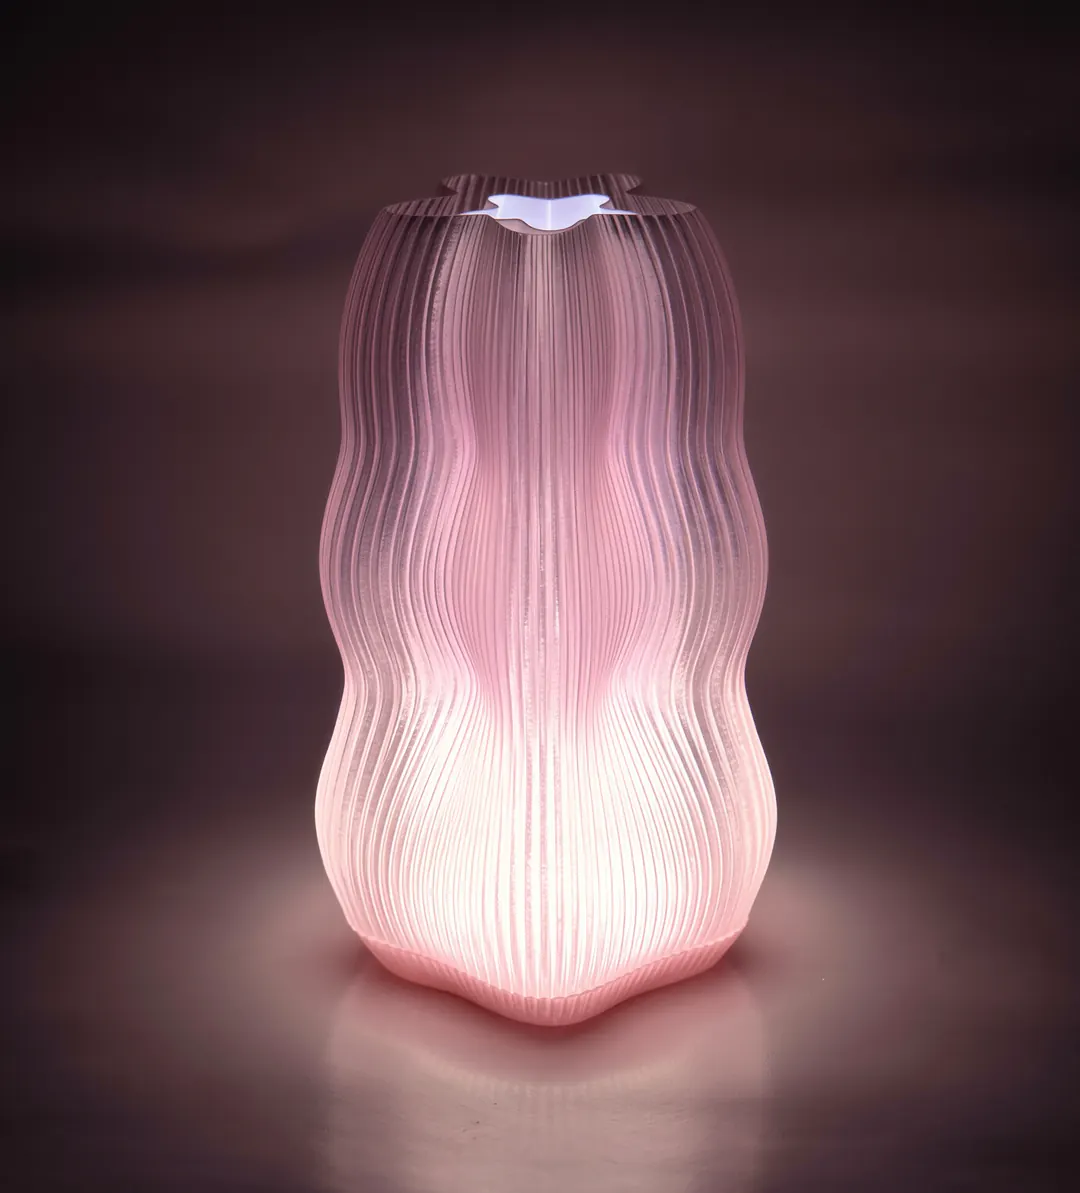
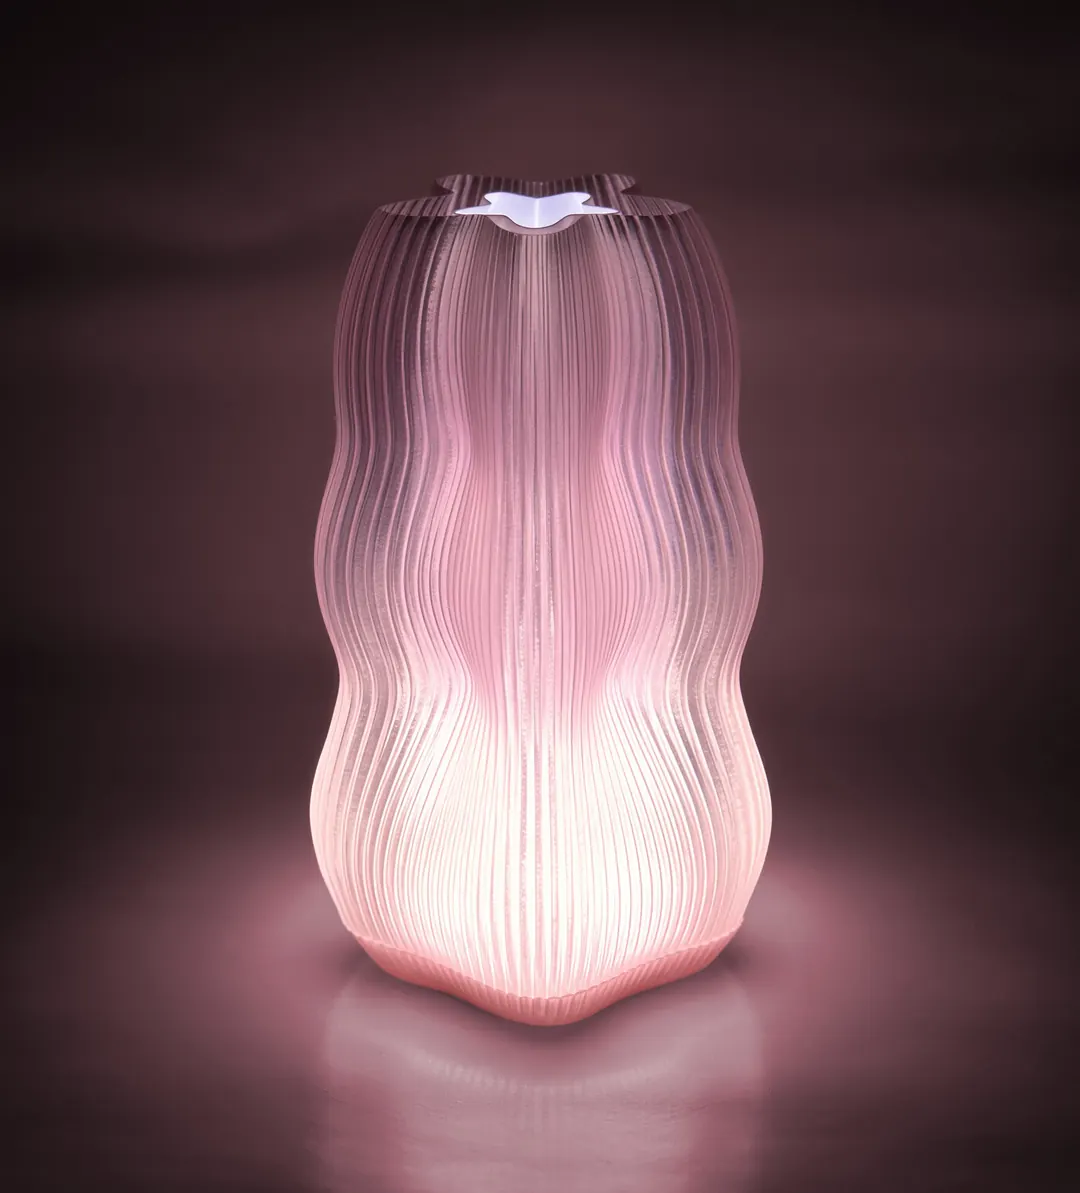
Use the retouched a photos (exported from PSD) for both colors
Claude-Session: https://claude.ai/code/session_01J1uzjjSWBcVbjXmWzqCTLW

Changed region(s): [[0.275, 0.1241, 0.7333, 0.8684]]

diff --git a/index.html b/index.html
@@ -261,7 +261,7 @@
     // 產品資料：加新顏色或新產品就改這裡
     // fadeFirst: true 時，第 1 → 2 張改成原地漸變（像開關燈），其餘照片左右滑動
     // 換圖後改這個版本號，瀏覽器就會重新下載照片，不會顯示舊的快取
-    const IMG_VERSION = '10';
+    const IMG_VERSION = '11';
 
     const product = {
       line: 'Lamp Saku',
@@ -275,11 +275,11 @@
     // 每張產品照的 16×17px 模糊縮圖，直接寫在網頁裡：照片還沒下載完時先顯示這個，不會出現空白
     // 換照片時要重新產生（跟換圖一起做）
     const PLACEHOLDERS = {
[9 lines of base64/hex data omitted]
     };
